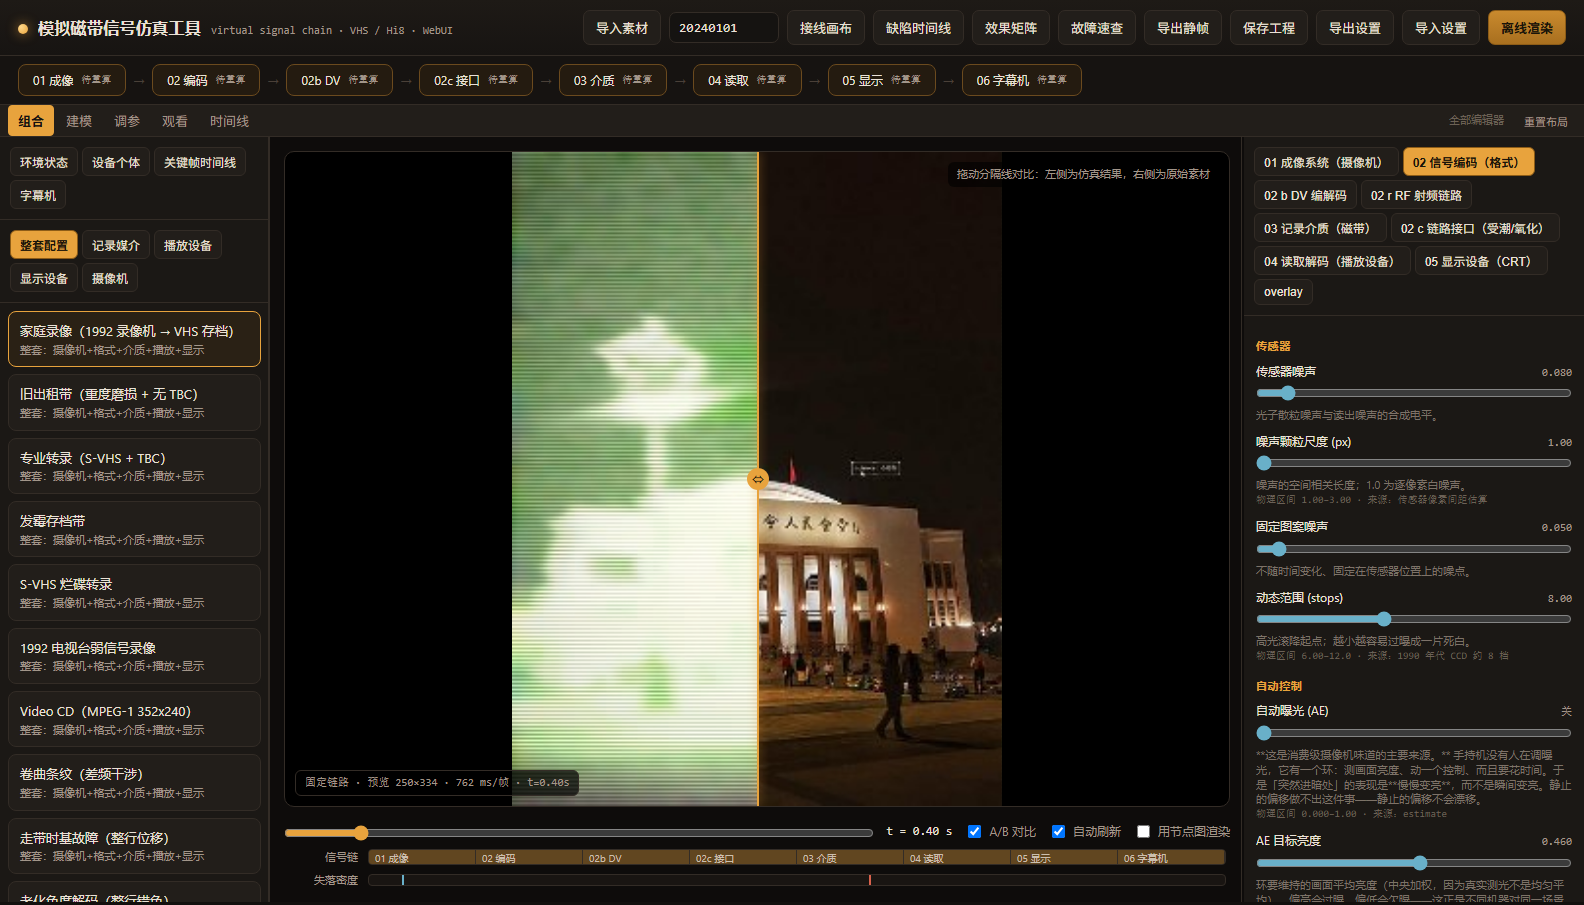
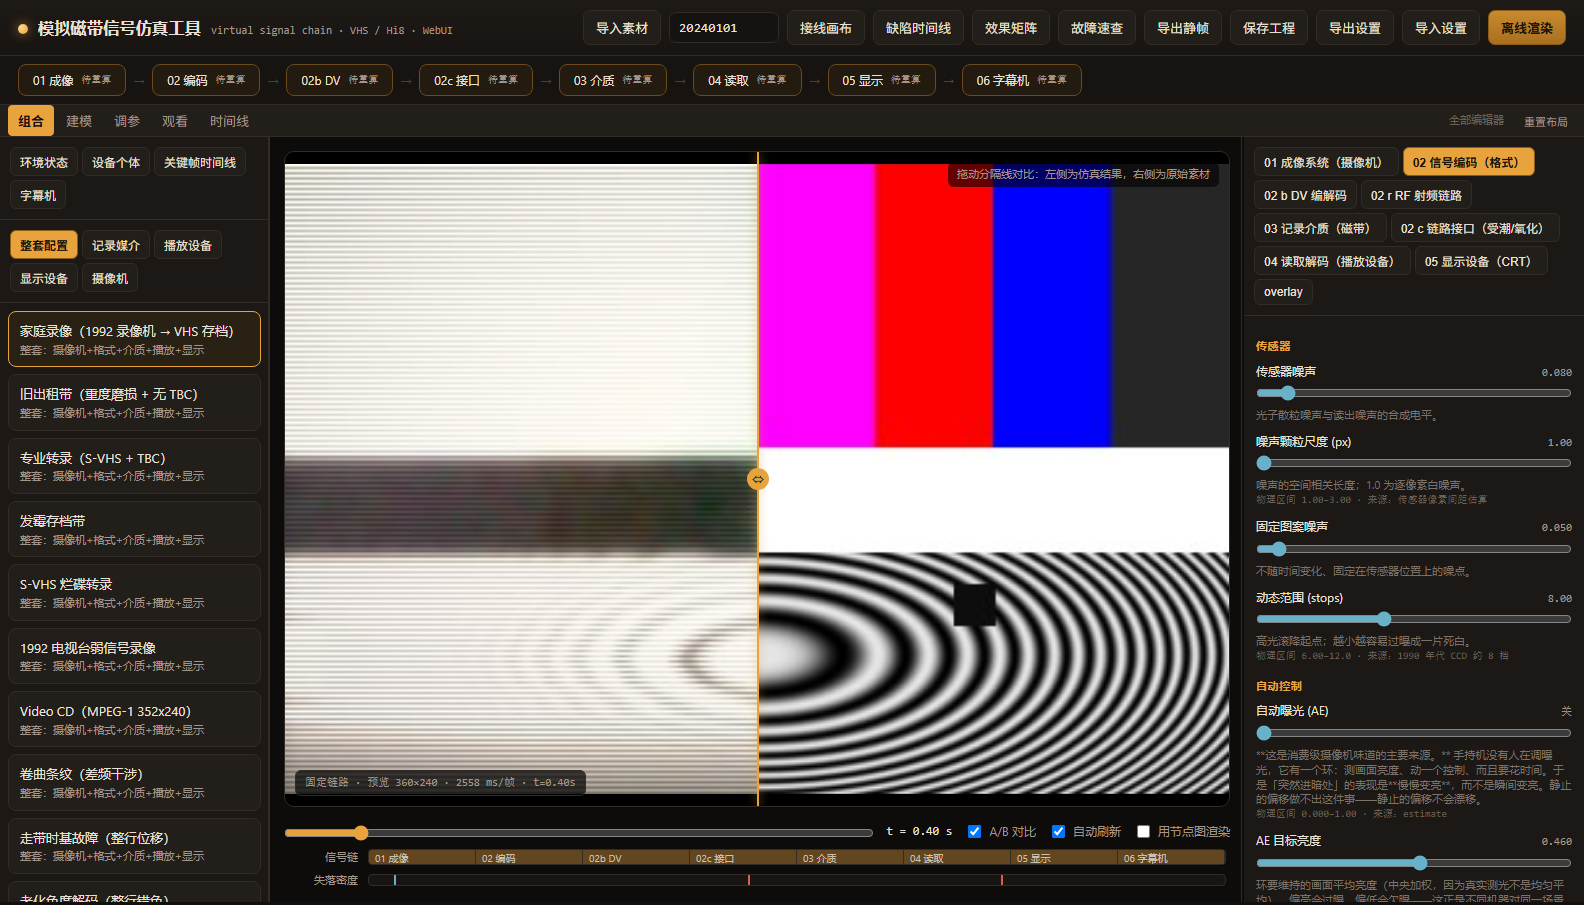
resolve the night-vision mode where the renderer and the API both pass through
**The fault this closes.** The mode's settings were applied inside the camera stage, so the renderer used them and
**nothing that read the parameters could see them**: measured in the browser, mode 3 selected with the engine's state
reporting `nv_green_mix = 1` while the renderer used 0. **Two sources of truth for one picture**, and the panel's slider
was editing a parameter the mode owned.

**The fix is in `Project.resolved_params`**, and its own docstring is why: device individual variation is applied there
"so that every caller goes through it and none can forget" -- **the same problem, already solved once for a different
kind of per-project adjustment.** Resolving the mode in the same place means the picture and the panel cannot disagree.
The camera stage keeps its own resolution because tests and the offline renderer drive it directly with no `Project`
around; **both call the module's single definition of what a mode means rather than reimplementing it.**

**Verified in the browser, driving the page's own handler:**

    mode 0 -> {"nv_mode":0, "nv_green_mix":1, "nv_accumulate":8}     the defaults, unchanged
    mode 1 -> {"nv_mode":1, "nv_green_mix":1, "nv_accumulate":1}     one frame, as NightShot should be
    mode 3 -> {"nv_mode":3, "nv_green_mix":0, "nv_accumulate":8}     the green display off, as colour requires

**And through the API, where the two sets can be told apart:**
[…]

diff --git a/atsim/web/static/app.js b/atsim/web/static/app.js
@@ -324,7 +324,14 @@ function paramRow(sp) {
     r.onchange = () => {
       const nv = parseFloat(r.value);
       vv.textContent = fmt(nv);
-      setParam(S.layer, sp.key, nv, false);
+      // **The mode's own settings are the engine's to decide**, so the page asks what it resolved instead of
+      // keeping a second copy of the preset table.  Without this the panel shows values the camera stage
+      // overrides -- measured in the browser: mode 3 selected with nv_green_mix reading 1 while the renderer
+      // used 0, i.e. two sources of truth for one picture.  setProject re-reads /api/project, which is
+      // where the resolved values come from, and re-renders this panel.
+      S.params[S.layer] = S.params[S.layer] || {};
+      S.params[S.layer][sp.key] = nv;
+      setProject({ params: { [S.layer]: { [sp.key]: nv } } });
     };
   } else {
     r = document.createElement("input");

diff --git a/tools/cdp_nvdrive.js b/tools/cdp_nvdrive.js
@@ -106,7 +106,10 @@ async function main() {
       const st = await evalJs(`(async () => {
         const r = await fetch("/api/project");
         const d = await r.json();
-        const c = d.project.params.camera;
+        // **the panel reads d.params -- the RESOLVED values**, which is where project_dict() puts them; d.project.params
+                 // is the project's own stored set. Reading the wrong one is what made an earlier probe report a fault
+                 // that was not there.
+                 const c = d.params.camera;
         return { nv_mode: c.nv_mode, nv_green_mix: c.nv_green_mix,
                  nv_accumulate: c.nv_accumulate, src: (d.project.source||"").split(/[\\\\/]/).pop() };
       })()`);

diff --git a/atsim/web/session.py b/atsim/web/session.py
@@ -82,7 +82,51 @@ def _preset_baseline() -> dict:
     return merge_values(base, _PRESET_BASELINE_LAYERS)
 
 
+def _resolve_night_vision(params: dict) -> dict:
+    """
+    Apply the night-vision mode's own settings to a resolved parameter set, in place of nothing.
+
+    **Why it lives here.**  The renderer and the API both call `resolved_params`, so resolving the mode here means the
+    picture and the panel cannot disagree -- which they did: the camera stage applied the mode's values and the
+    parameters the page read still held the schema defaults.
+
+    **And it is a no-op when no mode is selected**, so nothing about any existing preset changes: with `nv_mode` at 0 the
+    module returns the spec unchanged and the dictionary is returned as it was.
+    """
+    cam = params.get("camera")
+    if not cam:
+        return params
+    try:
+        mode = float(cam.get("nv_mode", 0.0))
+    except (TypeError, ValueError):
+        return params
+    if int(round(mode)) == 0:
+        return params
+    from ..codecs.nightvision import MODE_PRESETS, mode_of
+    from ..codecs.nightvision import NightVisionSpec
+    spec = NightVisionSpec.from_params(cam)
+    preset = MODE_PRESETS.get(mode_of(spec))
+    if not preset:
+        return params
+    # **The preset's keys are `NightVisionSpec` field names; the parameter set's are `nv_`-prefixed.**  Writing them
+    # unprefixed added three keys nothing reads and left the real three at their defaults -- measured, the resolver's
+    # output differed from its input by exactly `accumulate`, `green_mix` and `illuminator` appearing as new keys.  The
+    # guard that was meant to catch a bad name compared `f"nv_{k}"` against a set while using the bare `k` on the left,
+    # so it passed everything through; it now compares like with like.
+    updates = {f"nv_{k}": v for k, v in preset.items() if f"nv_{k}" in cam}
+    unknown = [k for k in preset if f"nv_{k}" not in cam]
+    if unknown:
+        # a preset naming a parameter the schema does not declare is a fault worth surfacing, not one to ignore
+        import warnings
+        warnings.warn("the night-vision preset names parameters the schema lacks: %s"
+                      % ", ".join(f"nv_{k}" for k in unknown), stacklevel=2)
+    out = dict(params)
+    out["camera"] = dict(cam, **updates)
+    return out
+
+
 @dataclass
+
 class Project:
     id: str = ""
     name: str = "未命名工程"
@@ -123,8 +167,16 @@ class Project:
         Device individual variation is applied here rather than in the renderer so that every caller
         goes through it and none can forget.  With no identities set nothing changes, which is what
         keeps every preset and capture from before this dimension rendering identically.
+
+        **The night-vision mode's own settings are resolved here for the same reason.**  They were applied inside the
+        camera stage first, so the renderer used them and nothing that *read* the parameters could see them -- measured
+        in the browser, mode 3 selected with the engine's state reporting `nv_green_mix = 1` while the renderer used 0,
+        i.e. two sources of truth for one picture and a slider editing a parameter the mode owned.  **This function is
+        the one place both the renderer and the API pass through**, which is exactly what its own docstring says about
+        device variation.
         """
         params = SCHEMA.resolve_all(self.params or {})
+        params = _resolve_night_vision(params)
         unit = self._unit()
         if unit is None:
             return params
